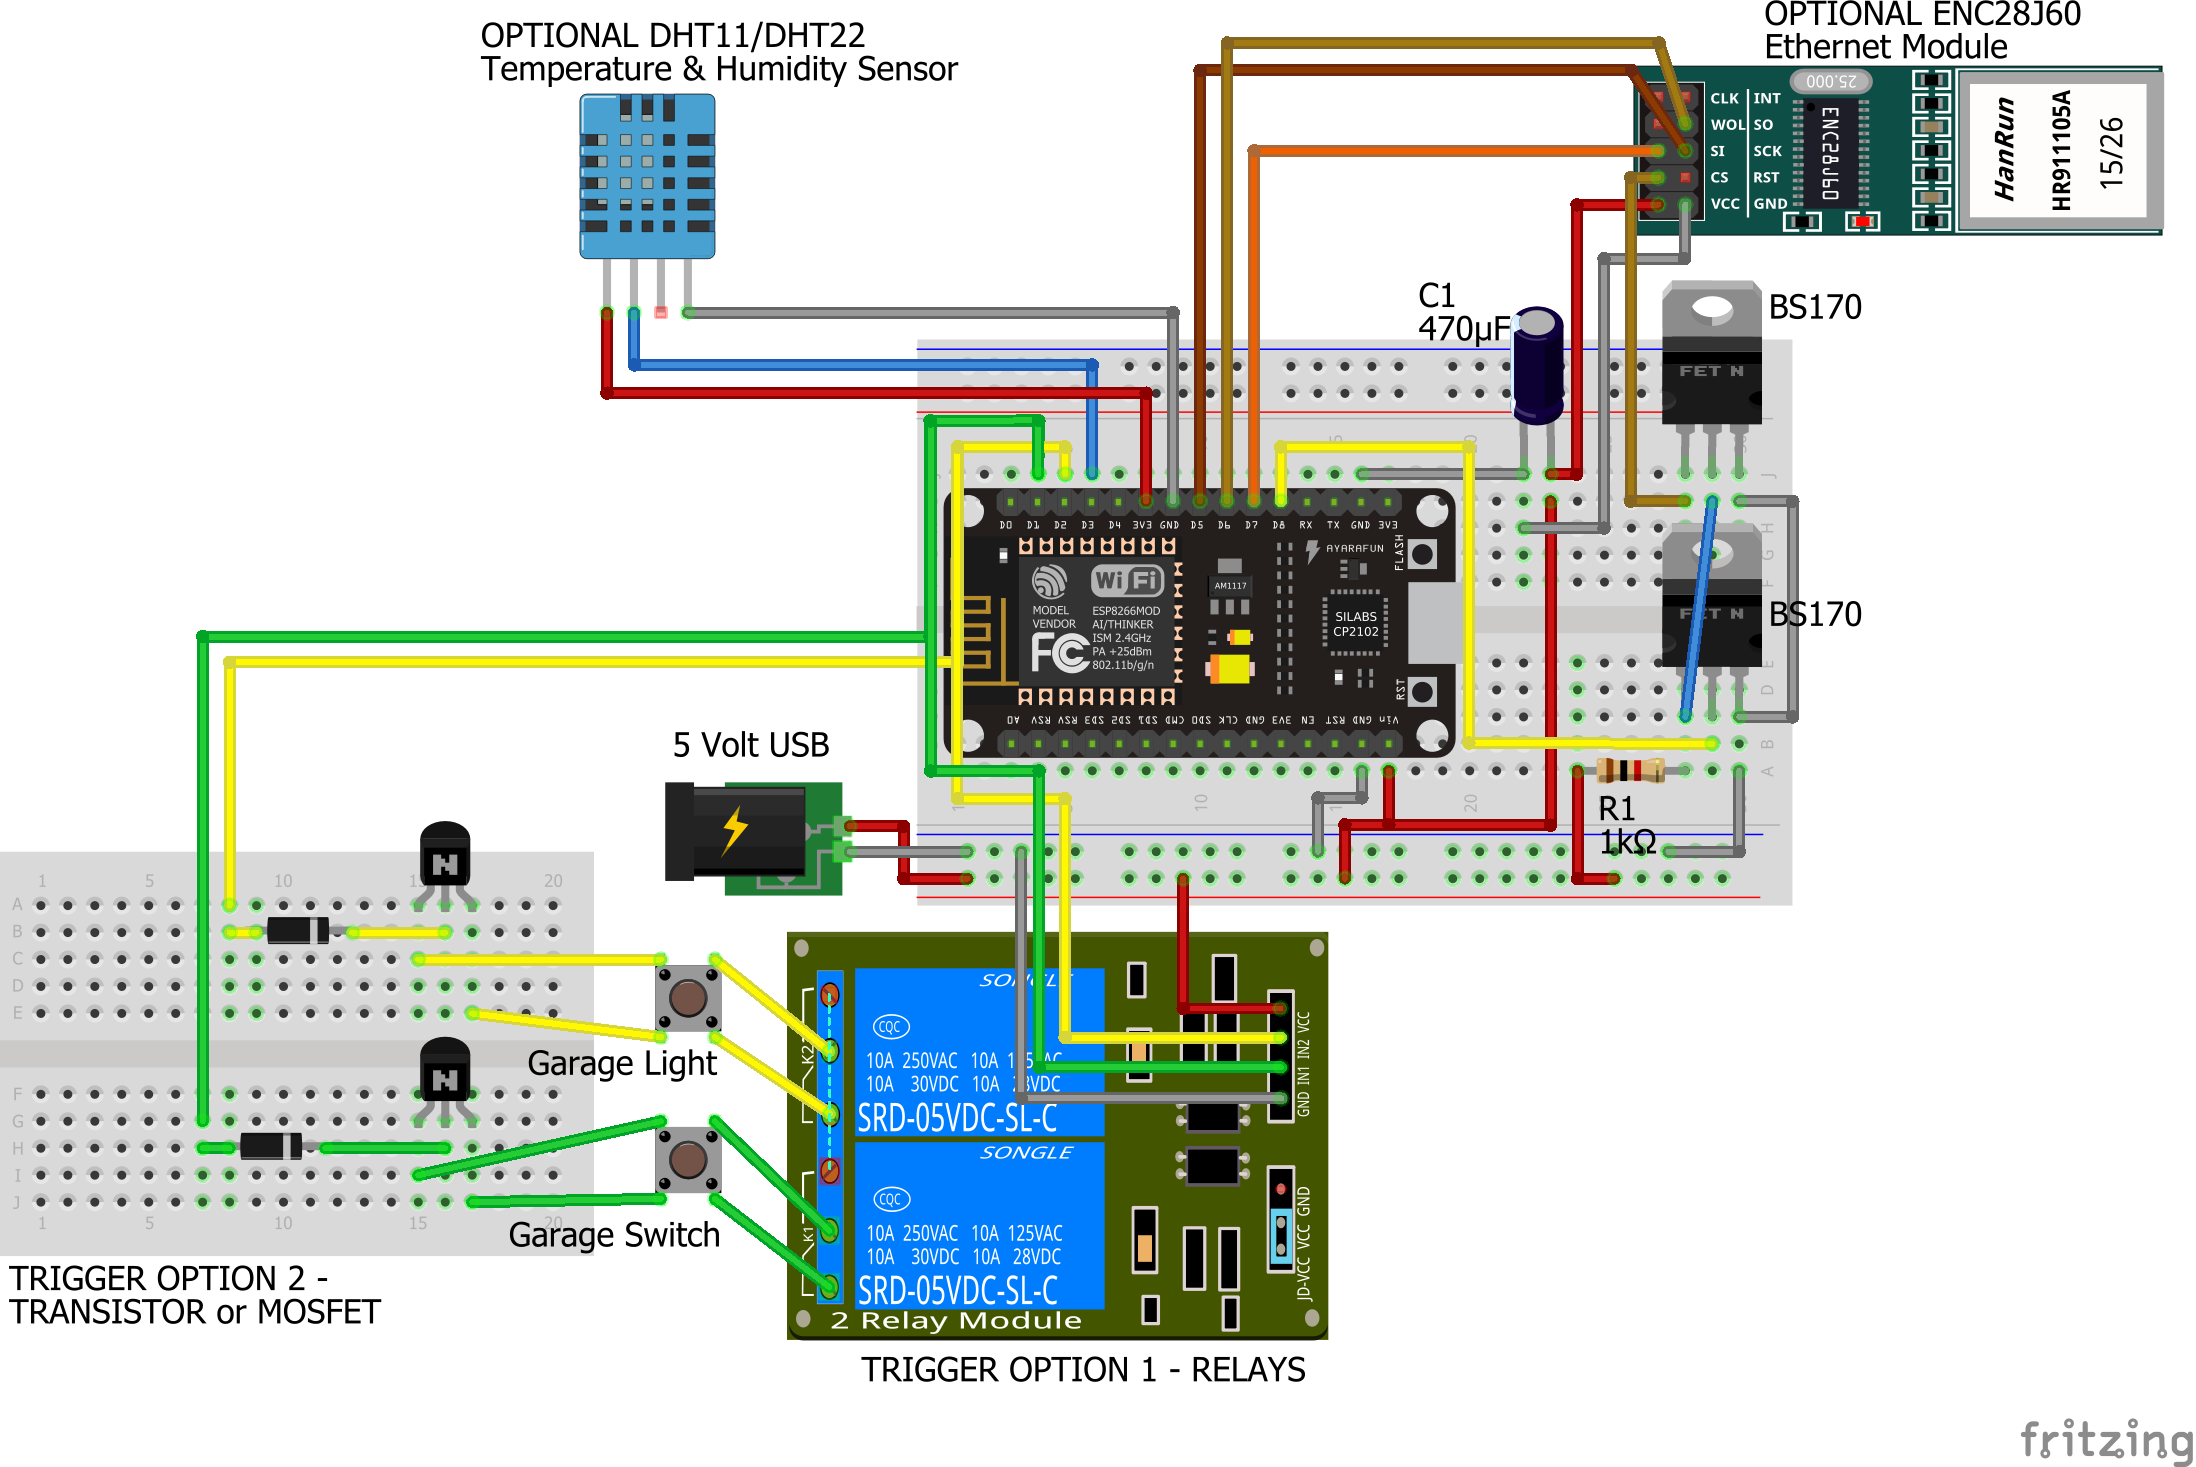
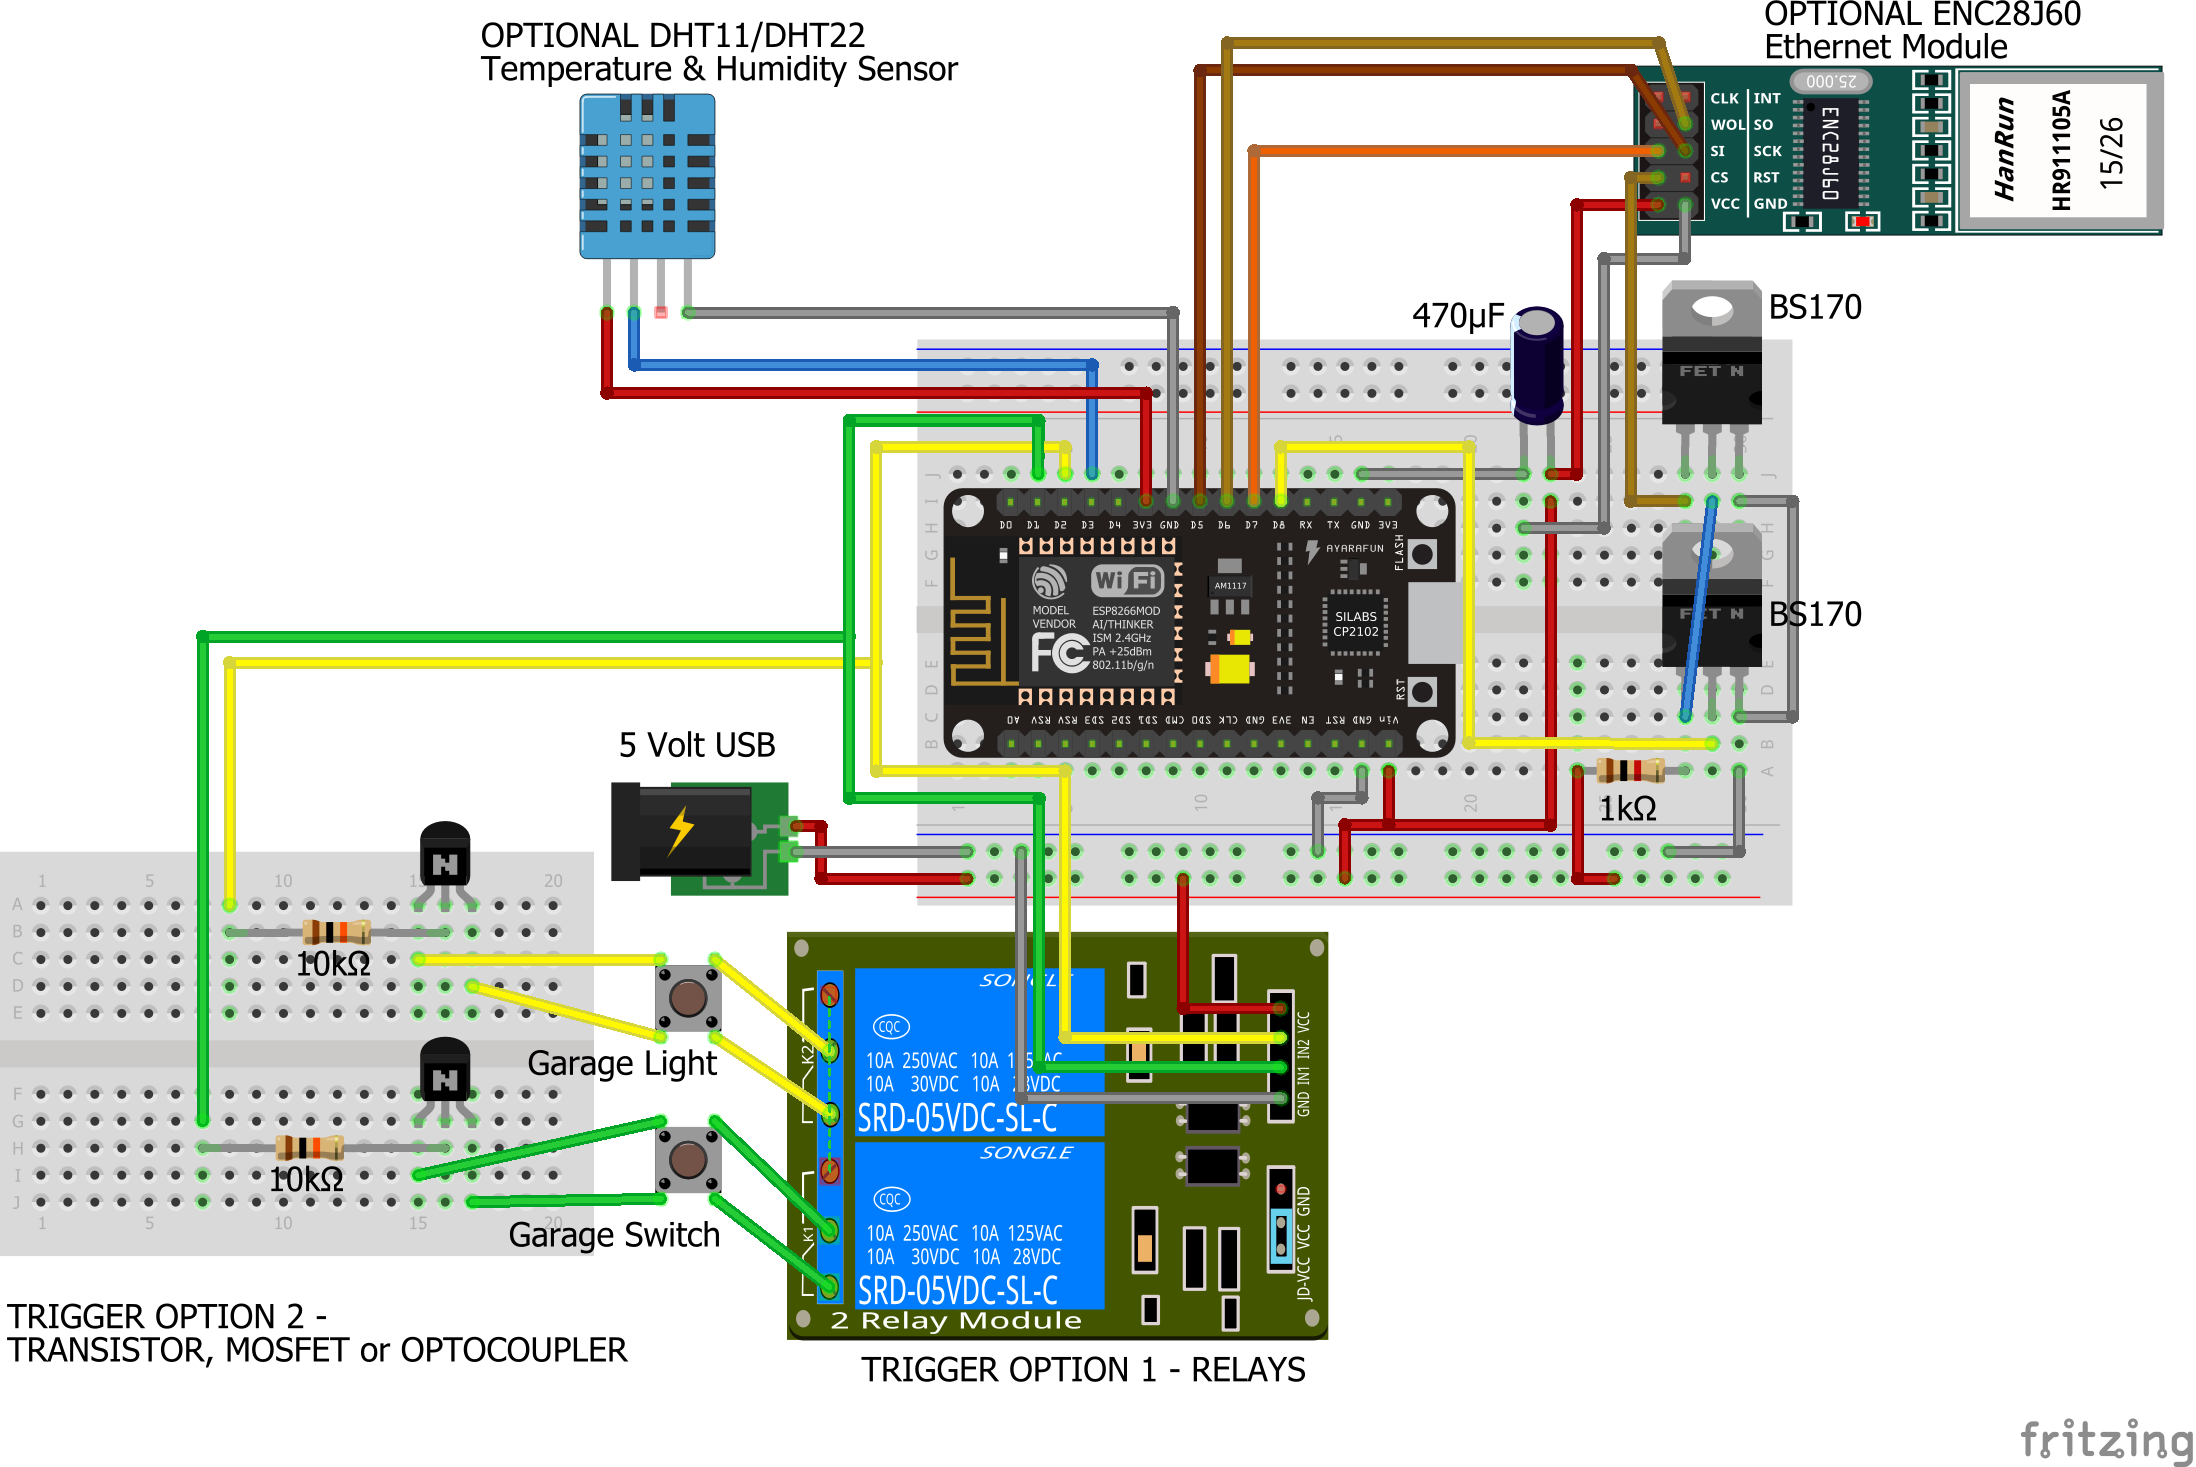
v1.0.20170110 - Arduino & NodeMCU code updated. Stateful on/off functionality fixed. DHT sensor will now retry 5 times so should return resu

diff --git a/Devices/Generic HTTP Device/README.md b/Devices/Generic HTTP Device/README.md
@@ -13,6 +13,7 @@ The *.ino files are the Arduino IDE code samples. Verify the few options at the 
 
 This project was tested successfully via an external IP, Pollster and with an Amazon Echo/Alexa. Echo can run TWO functions in my app. The ON command triggers the main function and OFF triggers the custom function but can be changed to only control the Main switch.
 
+</br>v1.0.20170110 - Arduino & NodeMCU code updated. Stateful on/off functionality fixed. DHT sensor will now retry 5 times so should return results with more success than before. DHT part number displayed.
 </br>v1.0.20170108 - ESP8266/NodeMCU can now be wired with an ENC28J60 using modified UIPEthernet library. Ability to use transistor/mosfet rather than relays. Reboot is now optionally modified via the web-page & stored in the first byte of the EEPROM thus the setting will survive a reboot or a flash. ST code now will work with an invalid header (impacts ESP8266 & ENC28J60 unreliability). Wiring diagrams updated.
 </br>v1.0.20161231 - Arduino sketch enhancements & fixes: Added free memory/heap logic. UpTime reports day/days correctly now. Replaced reboot logic with a simple while loop to cause a soft watchdog reset. Switched to use5Vrelay=true to match wiring diagrams. Added abort when favicon.ico request is sent.
 </br>v1.0.20161223 - Added UpTime for the Arduino IDE samples. Added device name & IP at the top of SmartThings screen. Added wiring for Arduino Nano & a generic ENC28J60 ethernet board.
